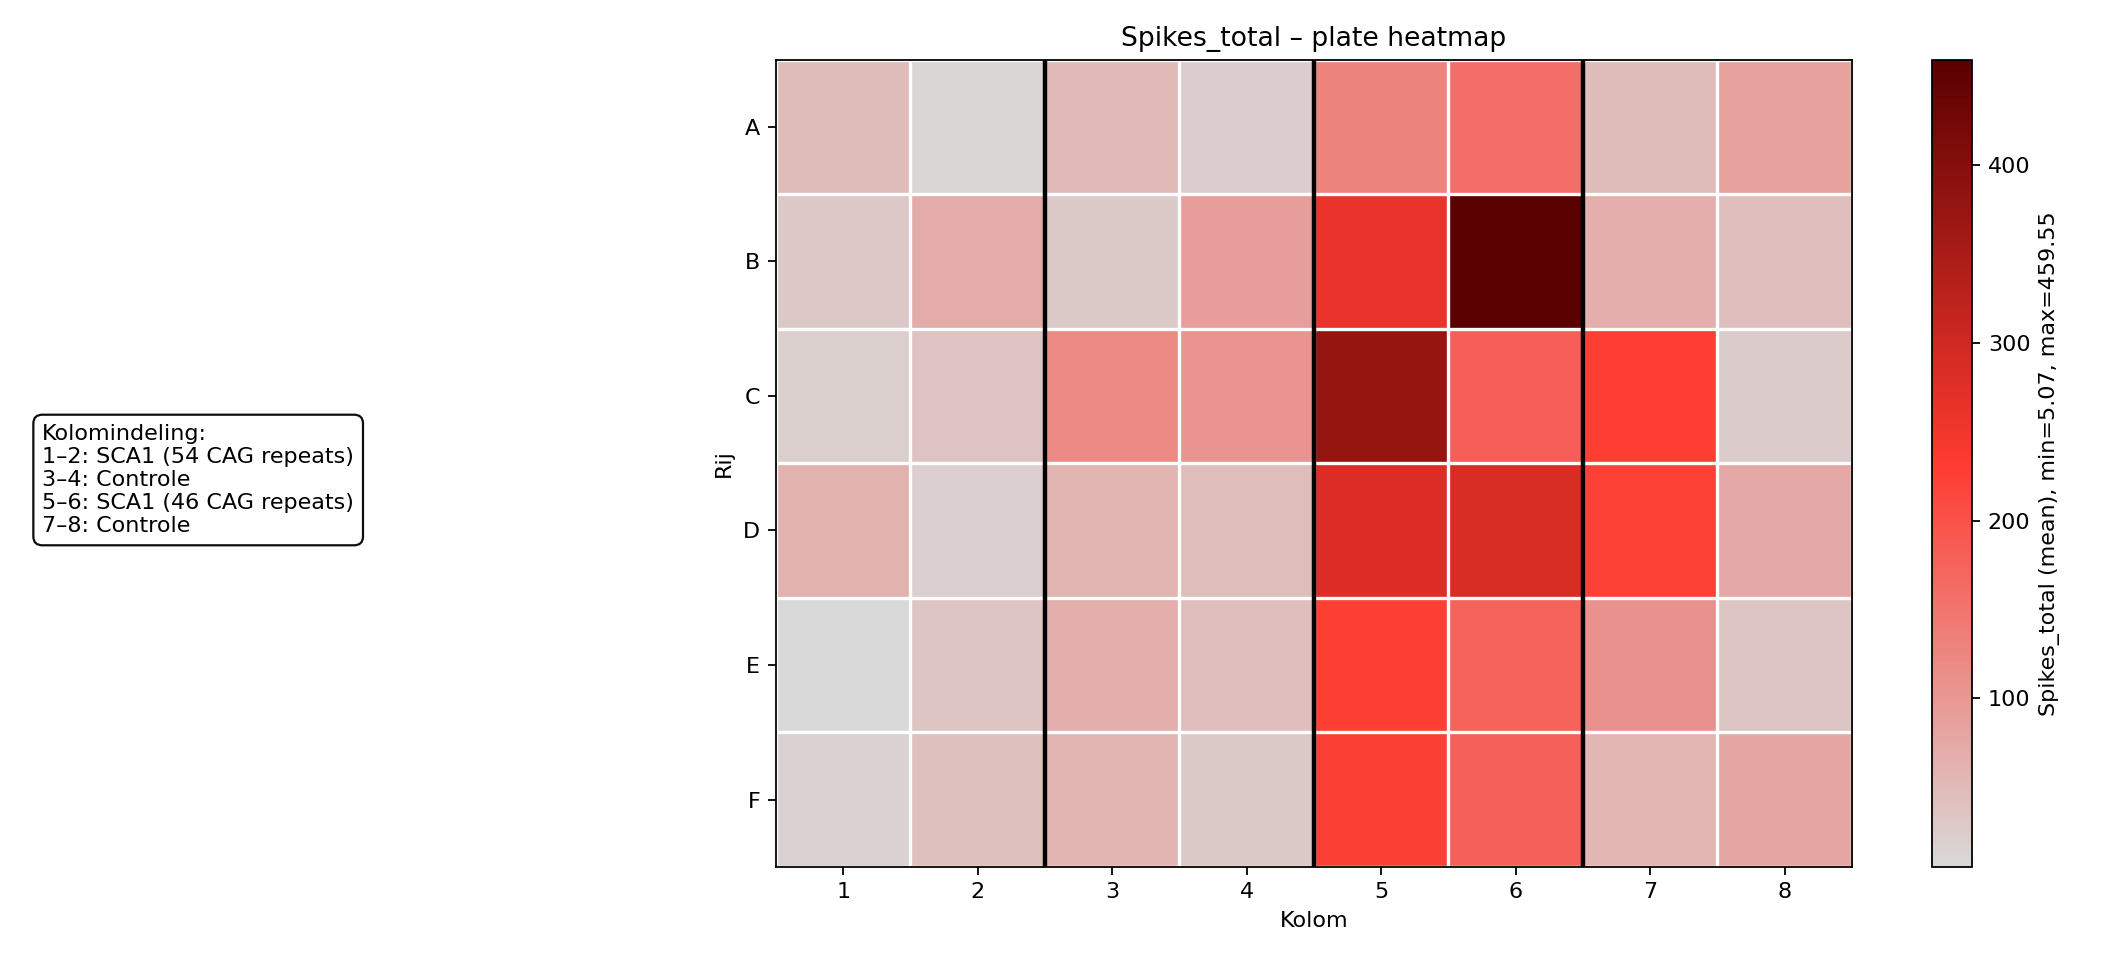
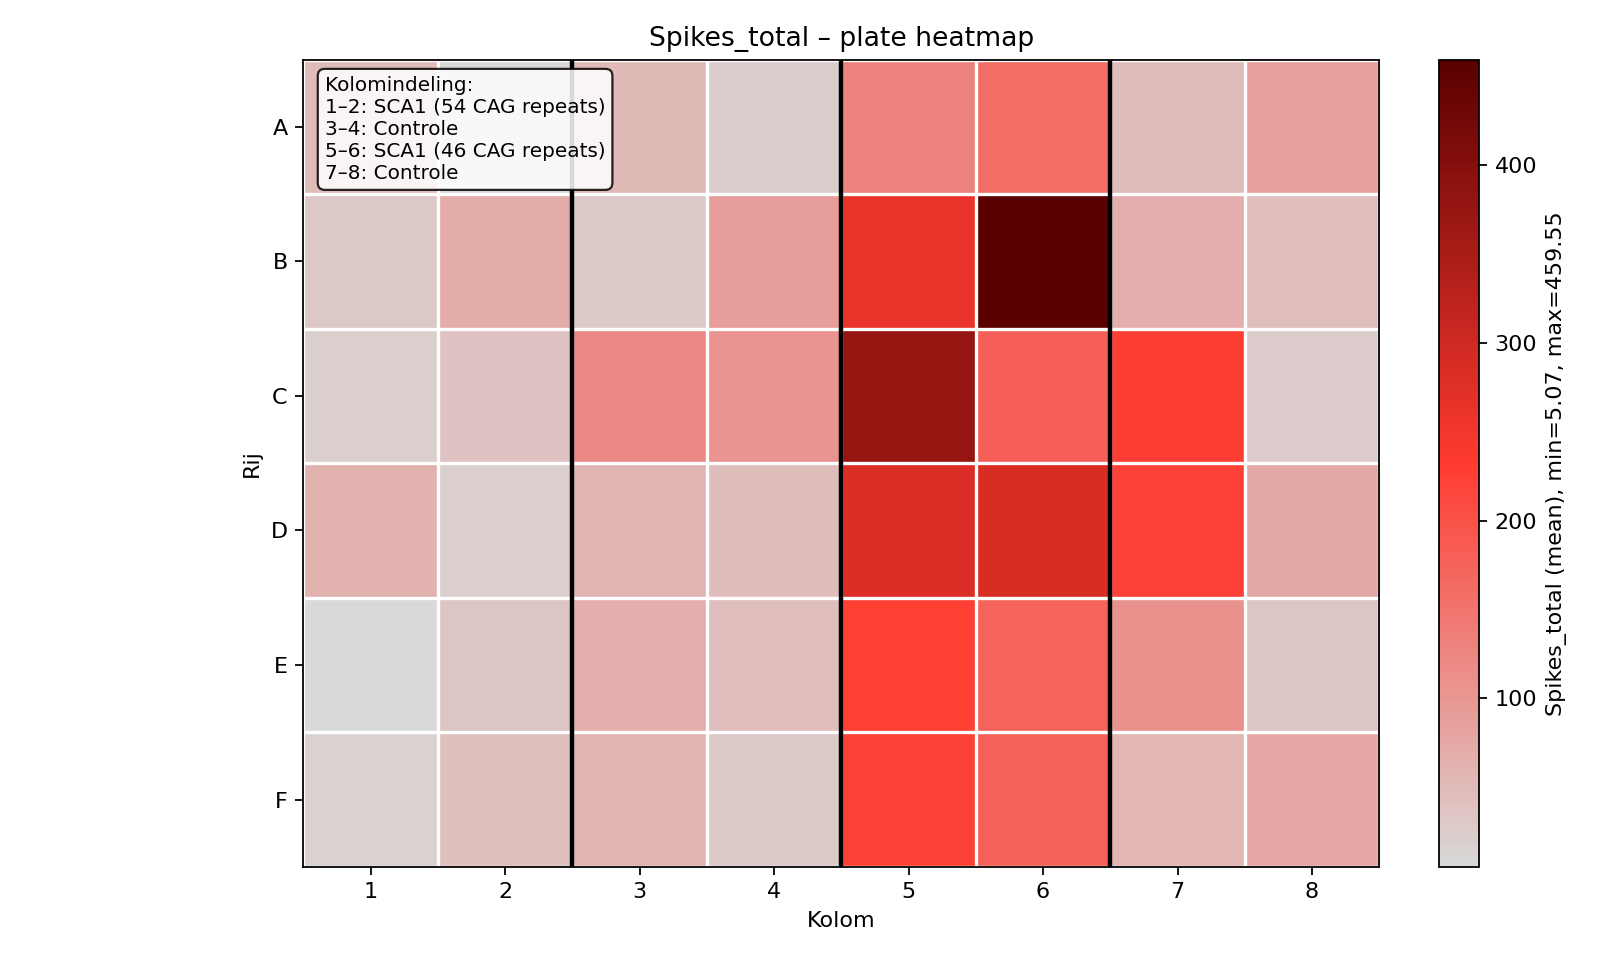
update heatmap

diff --git a/CureQ/Neural_Network/SCA1_analyses/main.py b/CureQ/Neural_Network/SCA1_analyses/main.py
@@ -1,8 +1,24 @@
 # analyze_mea_timeseries_manifest.py
 # ------------------------------------------------------------
-# Same as before, but:
-# - Legend left OUTSIDE with much less whitespace
-#   (tighter left margin + legend anchored closer to the heatmap)
+# MEA analysis script (manifest uses filenames only).
+# - Shows every 2nd tick on the x-axis and no rotation of labels.
+# - Automatic figure width (EXTRA_PER_POINT = 0.1 inch).
+# - Outputs under ./analyses/
+#
+# Includes:
+# - Spikes/Bursts totals per well over time
+# - Network bursts support (from well Features.csv column like "Network Bursts")
+# - Summary totals over measurements
+# - Plate heatmaps:
+#   (A) per-measurement heatmaps (optional)
+#   (B) aggregate heatmaps over ALL measurements (mean + sum)
+#
+# NEW:
+# - Column-group legend + visual separators for:
+#   Cols 1-2: SCA1 (54 CAG repeats)
+#   Cols 3-4: Controle
+#   Cols 5-6: SCA1 (46 CAG repeats)
+#   Cols 7-8: Controle
 # ------------------------------------------------------------
 
 from pathlib import Path
@@ -13,8 +29,8 @@ import matplotlib.pyplot as plt
 from matplotlib.colors import LinearSegmentedColormap, Normalize
 
 # ============ CONFIG ============
-WELL_DIR       = Path(r"C:\Users\chenp\Documents\SCA1_Features\025\Well")          # <-- zet dit
-ELECTRODE_DIR  = Path(r"C:\Users\chenp\Documents\SCA1_Features\025\Electrode")     # <-- zet dit
+WELL_DIR       = Path(r"C:\Users\chenp\Documents\SCA1_Features\Well")          # <-- zet dit
+ELECTRODE_DIR  = Path(r"C:\Users\chenp\Documents\SCA1_Features\Electrode")     # <-- zet dit
 
 SCRIPT_DIR     = Path(__file__).resolve().parent
 MANIFEST_PATH  = SCRIPT_DIR / "./manifest/manifest.json"
@@ -27,22 +43,27 @@ ALPHA          = 0.9
 LINE_CONNECT   = True
 LINE_WIDTH     = 1.2
 
+# Automatic figure sizing parameters (0.1 inch per datapunt)
 BASE_WIDTH_INCHES = 6.0
 EXTRA_PER_POINT = 0.1
 FIG_HEIGHT = 5.0
 
+# Tick show step: show every Nth tick (user requested every 2nd)
 TICK_STEP = 2
 
+# ---- Plate layout (48-well: 6 rows x 8 cols) ----
 GRID_ROWS = 6
 GRID_COLS = 8
 ROW_LABELS = ["A", "B", "C", "D", "E", "F"]
 COL_LABELS = [str(i) for i in range(1, GRID_COLS + 1)]
 
+# Heatmap colors: gray (low) -> red (high) -> dark red (very high)
 HEAT_CMAP = LinearSegmentedColormap.from_list(
     "gray_red_darkred",
     ["#D9D9D9", "#FF3B30", "#5A0000"]
 )
 
+# Column group mapping (by column numbers on the plate grid)
 COLUMN_GROUPS = [
     (1, 2, "SCA1 (54 CAG repeats)"),
     (3, 4, "Controle"),
@@ -66,10 +87,12 @@ def read_well_csv(path: Path) -> pd.DataFrame | None:
         return None
 
     def pick_total(keyword: str):
+        # Prefer columns that look like totals/sums
         for c in df.columns:
             cl = c.lower()
             if keyword in cl and ("total" in cl or "sum" in cl):
                 return c
+        # Otherwise any column containing the keyword
         for c in df.columns:
             if keyword in c.lower():
                 return c
@@ -77,7 +100,7 @@ def read_well_csv(path: Path) -> pd.DataFrame | None:
 
     c_spikes_tot = pick_total("spike")
     c_bursts_tot = pick_total("burst")
-    c_netbursts_tot = pick_total("network burst")
+    c_netbursts_tot = pick_total("network burst")  # e.g. "Network Bursts"
 
     out = pd.DataFrame()
     out["Well"] = pd.to_numeric(df[c_well], errors="coerce").astype("Int64")
@@ -87,6 +110,7 @@ def read_well_csv(path: Path) -> pd.DataFrame | None:
         out["Bursts_total_well"] = pd.to_numeric(df[c_bursts_tot], errors="coerce")
     if c_netbursts_tot is not None:
         out["NetworkBursts_total_well"] = pd.to_numeric(df[c_netbursts_tot], errors="coerce")
+
     return out
 
 
@@ -114,9 +138,11 @@ def read_electrode_csv(path: Path) -> pd.DataFrame:
     out["Electrode"] = pd.to_numeric(df[c_elec], errors="coerce").astype("Int64")
     out["Spikes"] = pd.to_numeric(df[c_spikes], errors="coerce").fillna(0).astype(int) if c_spikes is not None else 0
     out["Bursts"] = pd.to_numeric(df[c_bursts], errors="coerce").fillna(0).astype(int) if c_bursts is not None else 0
+
     return out
 
 
+# ---------- Helpers: grid / summarise ----------
 def ensure_full_grid_with_presence(df_elec: pd.DataFrame, wells: int, elecs: int) -> pd.DataFrame:
     wells_list = list(range(1, wells + 1))
     elecs_list = list(range(1, elecs + 1))
@@ -178,33 +204,38 @@ def _auto_figsize_by_npoints(n_points: int) -> tuple[float, float]:
 
 
 def set_xticks_subset(ax, positions: list[float], step: int = 2):
+    """Set xticks using only every 'step'-th position from positions (positions is ordered)."""
     if not positions:
         return
-    ticks = list(positions)[::step]
+    pos = list(positions)
+    ticks = pos[::step]
+    labels = [str(int(v)) for v in ticks]
     ax.set_xticks(ticks)
-    ax.set_xticklabels([str(int(v)) for v in ticks], ha="center")
+    ax.set_xticklabels(labels, ha="center")
 
 
-def draw_group_separators(ax):
+def add_plate_column_group_legend(ax):
+    """
+    Adds a small legend-style textbox and visual separators for column groups.
+    Assumes columns are 1..8 (GRID_COLS=8).
+    """
+    # Visual separators between the column pairs: after col2, col4, col6
+    # In imshow coords, column centers are 0..7; boundaries are at 1.5, 3.5, 5.5
     for xb in [1.5, 3.5, 5.5]:
         ax.axvline(x=xb, ymin=0, ymax=1, color="black", linewidth=2)
 
-
-def add_plate_column_group_legend_left(fig, anchor_x: float, y: float = 0.5):
-    """
-    Legend in figure coordinates.
-    anchor_x controls how close it sits to the heatmap.
-    """
+    # Textbox legend (inside axes, top-left)
     lines = ["Kolomindeling:"]
     for c1, c2, label in COLUMN_GROUPS:
         lines.append(f"{c1}–{c2}: {label}")
     txt = "\n".join(lines)
 
-    fig.text(
-        anchor_x, y, txt,
-        ha="left", va="center",
-        fontsize=10,
-        bbox=dict(boxstyle="round,pad=0.35", facecolor="white", edgecolor="black", alpha=0.95),
+    ax.text(
+        0.02, 0.98, txt,
+        transform=ax.transAxes,
+        ha="left", va="top",
+        fontsize=9,
+        bbox=dict(boxstyle="round,pad=0.35", facecolor="white", edgecolor="black", alpha=0.85),
     )
 
 
@@ -227,6 +258,7 @@ def plot_per_well_timeseries(
         dfw = dfw.sort_values("id")
         x = dfw["id"].to_numpy(dtype=float)
         y = dfw[metric].to_numpy()
+
         if x.size == 0:
             continue
 
@@ -241,12 +273,17 @@ def plot_per_well_timeseries(
         ax.set_xlabel("Meting (id)")
         ax.set_ylabel(metric)
         ax.set_title(f"Well {int(well)} – {metric}")
+
         set_xticks_subset(ax, list(x), step=TICK_STEP)
 
-        ax.set_xlim(float(x.min()) - 0.4, float(x.max()) + 0.4)
+        min_x, max_x = float(x.min()), float(x.max())
+        pad = 0.4
+        ax.set_xlim(min_x - pad, max_x + pad)
+
         plt.subplots_adjust(bottom=0.18)
         fig.tight_layout()
-        fig.savefig(plot_dir / f"well_{int(well)}_{metric}.png", dpi=150)
+        out_file = plot_dir / f"well_{int(well)}_{metric}.png"
+        fig.savefig(out_file, dpi=150)
         plt.close(fig)
 
 
@@ -267,10 +304,12 @@ def plot_totals_over_measurements(well_df: pd.DataFrame, out_dir: Path, ids_sort
                )
                .sort_values("id")
     )
+
     if totals.empty:
         return
 
-    fig_size = _auto_figsize_by_npoints(len(ids_sorted))
+    n_points = len(ids_sorted)
+    fig_size = _auto_figsize_by_npoints(n_points)
     xs = totals["id"].to_numpy(dtype=float)
 
     def _plot_one(y, ylabel, title, fname):
@@ -287,22 +326,38 @@ def plot_totals_over_measurements(well_df: pd.DataFrame, out_dir: Path, ids_sort
         fig.savefig(summary_dir / fname, dpi=150)
         plt.close(fig)
 
-    _plot_one(totals["Total_Spikes"].to_numpy(), "Totale Spikes (alle wells)", "Totale Spikes per meting",
-              "total_spikes_over_measurements.png")
-    _plot_one(totals["Total_Bursts"].to_numpy(), "Totale Bursts (alle wells)", "Totale Bursts per meting",
-              "total_bursts_over_measurements.png")
-    _plot_one(totals["Total_NetworkBursts"].to_numpy(), "Totale Network Bursts (alle wells)",
-              "Totale Network Bursts per meting", "total_network_bursts_over_measurements.png")
+    _plot_one(
+        totals["Total_Spikes"].to_numpy(),
+        "Totale Spikes (alle wells)",
+        "Totale Spikes per meting",
+        "total_spikes_over_measurements.png"
+    )
+    _plot_one(
+        totals["Total_Bursts"].to_numpy(),
+        "Totale Bursts (alle wells)",
+        "Totale Bursts per meting",
+        "total_bursts_over_measurements.png"
+    )
+    _plot_one(
+        totals["Total_NetworkBursts"].to_numpy(),
+        "Totale Network Bursts (alle wells)",
+        "Totale Network Bursts per meting",
+        "total_network_bursts_over_measurements.png"
+    )
 
 
 def plot_plate_grid_aggregate(
     well_df: pd.DataFrame,
     out_dir: Path,
     metric_col: str,
-    agg: str = "mean",
+    agg: str = "mean",     # "mean", "sum", "median"
     wells_total: int = 48,
     annotate: bool = False,
 ):
+    """
+    Creates ONE 6x8 plate heatmap summarizing activity across ALL measurements.
+    Each well cell = aggregated metric over time (e.g., mean or sum over 41 measurements).
+    """
     plot_dir = out_dir / "plots" / "grid_summary"
     plot_dir.mkdir(parents=True, exist_ok=True)
 
@@ -330,7 +385,9 @@ def plot_plate_grid_aggregate(
         if not np.isfinite(val):
             continue
         w = int(w)
-        mat[(w - 1) // GRID_COLS, (w - 1) % GRID_COLS] = float(val)
+        rr = (w - 1) // GRID_COLS
+        cc = (w - 1) % GRID_COLS
+        mat[rr, cc] = float(val)
 
     finite = mat[np.isfinite(mat)]
     if finite.size == 0:
@@ -343,11 +400,7 @@ def plot_plate_grid_aggregate(
         vmax = vmin + 1e-9
     norm = Normalize(vmin=vmin, vmax=vmax)
 
-    # Make figure only slightly wider, and reserve a SMALL left margin
-    fig, ax = plt.subplots(figsize=(11.2, 6))
-    left_margin = 0.18   # tighter than before (was ~0.28)
-    fig.subplots_adjust(left=left_margin, right=0.92)
-
+    fig, ax = plt.subplots(figsize=(10, 6))
     im = ax.imshow(mat, cmap=HEAT_CMAP, norm=norm, aspect="equal")
 
     ax.set_xticks(np.arange(GRID_COLS))
@@ -359,18 +412,20 @@ def plot_plate_grid_aggregate(
     ax.set_ylabel("Rij")
     ax.set_title(f"{metric_col} – plate heatmap")
 
+    # cell borders
     ax.set_xticks(np.arange(-.5, GRID_COLS, 1), minor=True)
     ax.set_yticks(np.arange(-.5, GRID_ROWS, 1), minor=True)
     ax.grid(which="minor", color="white", linestyle="-", linewidth=1.5)
     ax.tick_params(which="minor", bottom=False, left=False)
 
-    draw_group_separators(ax)
+    # NEW: column-group legend + separators
+    add_plate_column_group_legend(ax)
 
-    # Anchor the legend near the heatmap edge:
-    # put it a tiny bit left of the axes region, not far at 0.02
-    # axes start at fig fraction 'left_margin', so we place legend at left_margin - small offset
-    legend_x = max(0.01, left_margin - 0.06)
-    add_plate_column_group_legend_left(fig, anchor_x=legend_x, y=0.5)
+    if annotate:
+        for rr in range(GRID_ROWS):
+            for cc in range(GRID_COLS):
+                if np.isfinite(mat[rr, cc]):
+                    ax.text(cc, rr, f"{mat[rr, cc]:.0f}", ha="center", va="center", fontsize=8)
 
     cbar = fig.colorbar(im, ax=ax, fraction=0.046, pad=0.04)
     cbar.set_label(f"{metric_col} ({agg}), min={vmin:.2f}, max={vmax:.2f}")
@@ -470,8 +525,29 @@ def main():
     print(f"Saved electrode CSV: {elec_out}")
     print(f"Saved well CSV:      {well_out}")
 
-    # Totals over measurements + aggregate heatmaps mean+sum
+    # For per-well timeseries plots
+    well_for_plots = well_all.rename(columns={
+        "Spikes_total": "Spikes",
+        "Bursts_total": "Bursts",
+        "NetworkBursts_total": "NetworkBursts"
+    })
+
+    # Per-well timeseries plots
+    plot_per_well_timeseries(well_for_plots, out_root, "Spikes", ids_sorted, id_to_date, line_or_scatter="line")
+    plot_per_well_timeseries(well_for_plots, out_root, "Spikes", ids_sorted, id_to_date, line_or_scatter="scatter")
+    plot_per_well_timeseries(well_for_plots, out_root, "Bursts", ids_sorted, id_to_date, line_or_scatter="line")
+    plot_per_well_timeseries(well_for_plots, out_root, "Bursts", ids_sorted, id_to_date, line_or_scatter="scatter")
+
+    # Network bursts per well
+    plot_per_well_timeseries(well_for_plots, out_root, "NetworkBursts", ids_sorted, id_to_date, line_or_scatter="line")
+    plot_per_well_timeseries(well_for_plots, out_root, "NetworkBursts", ids_sorted, id_to_date, line_or_scatter="scatter")
+
+    # Totals over measurements
     plot_totals_over_measurements(well_all, out_root, ids_sorted)
+
+    # Aggregate plate heatmaps over ALL measurements:
+    # (1) Mean (average spikes per measurement)
+    # (2) Sum  (total spikes over the whole experiment)
     plot_plate_grid_aggregate(well_all, out_root, "Spikes_total", agg="mean", wells_total=wells, annotate=False)
     plot_plate_grid_aggregate(well_all, out_root, "Spikes_total", agg="sum",  wells_total=wells, annotate=False)
 
